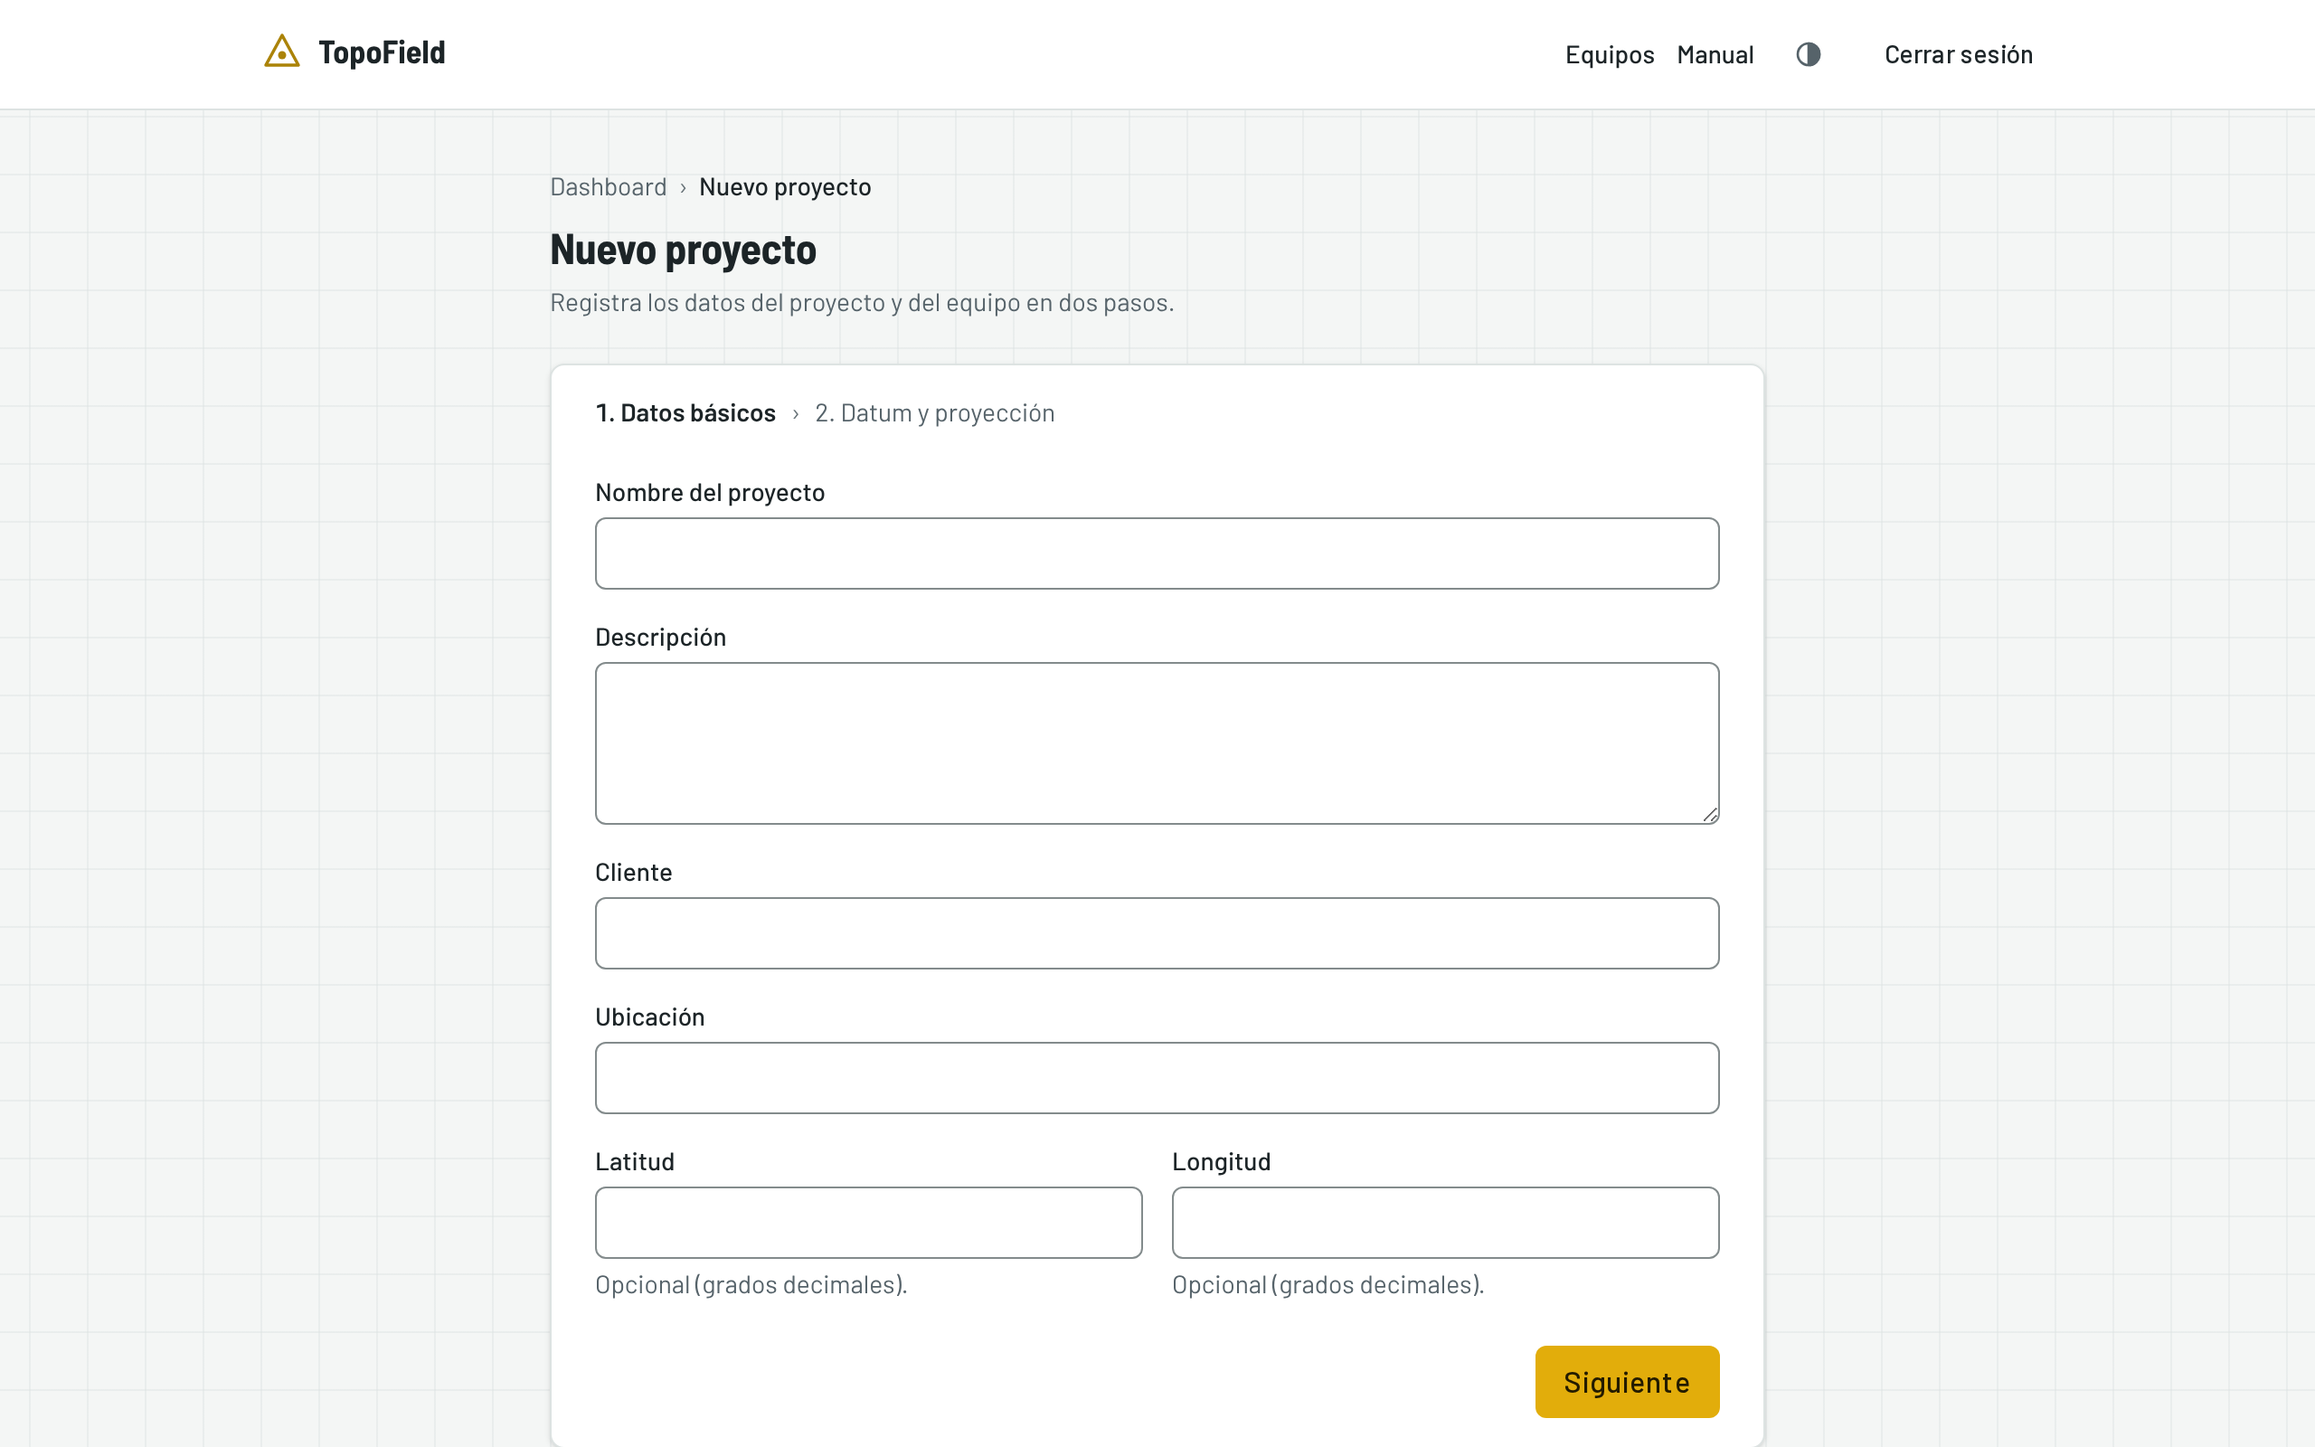
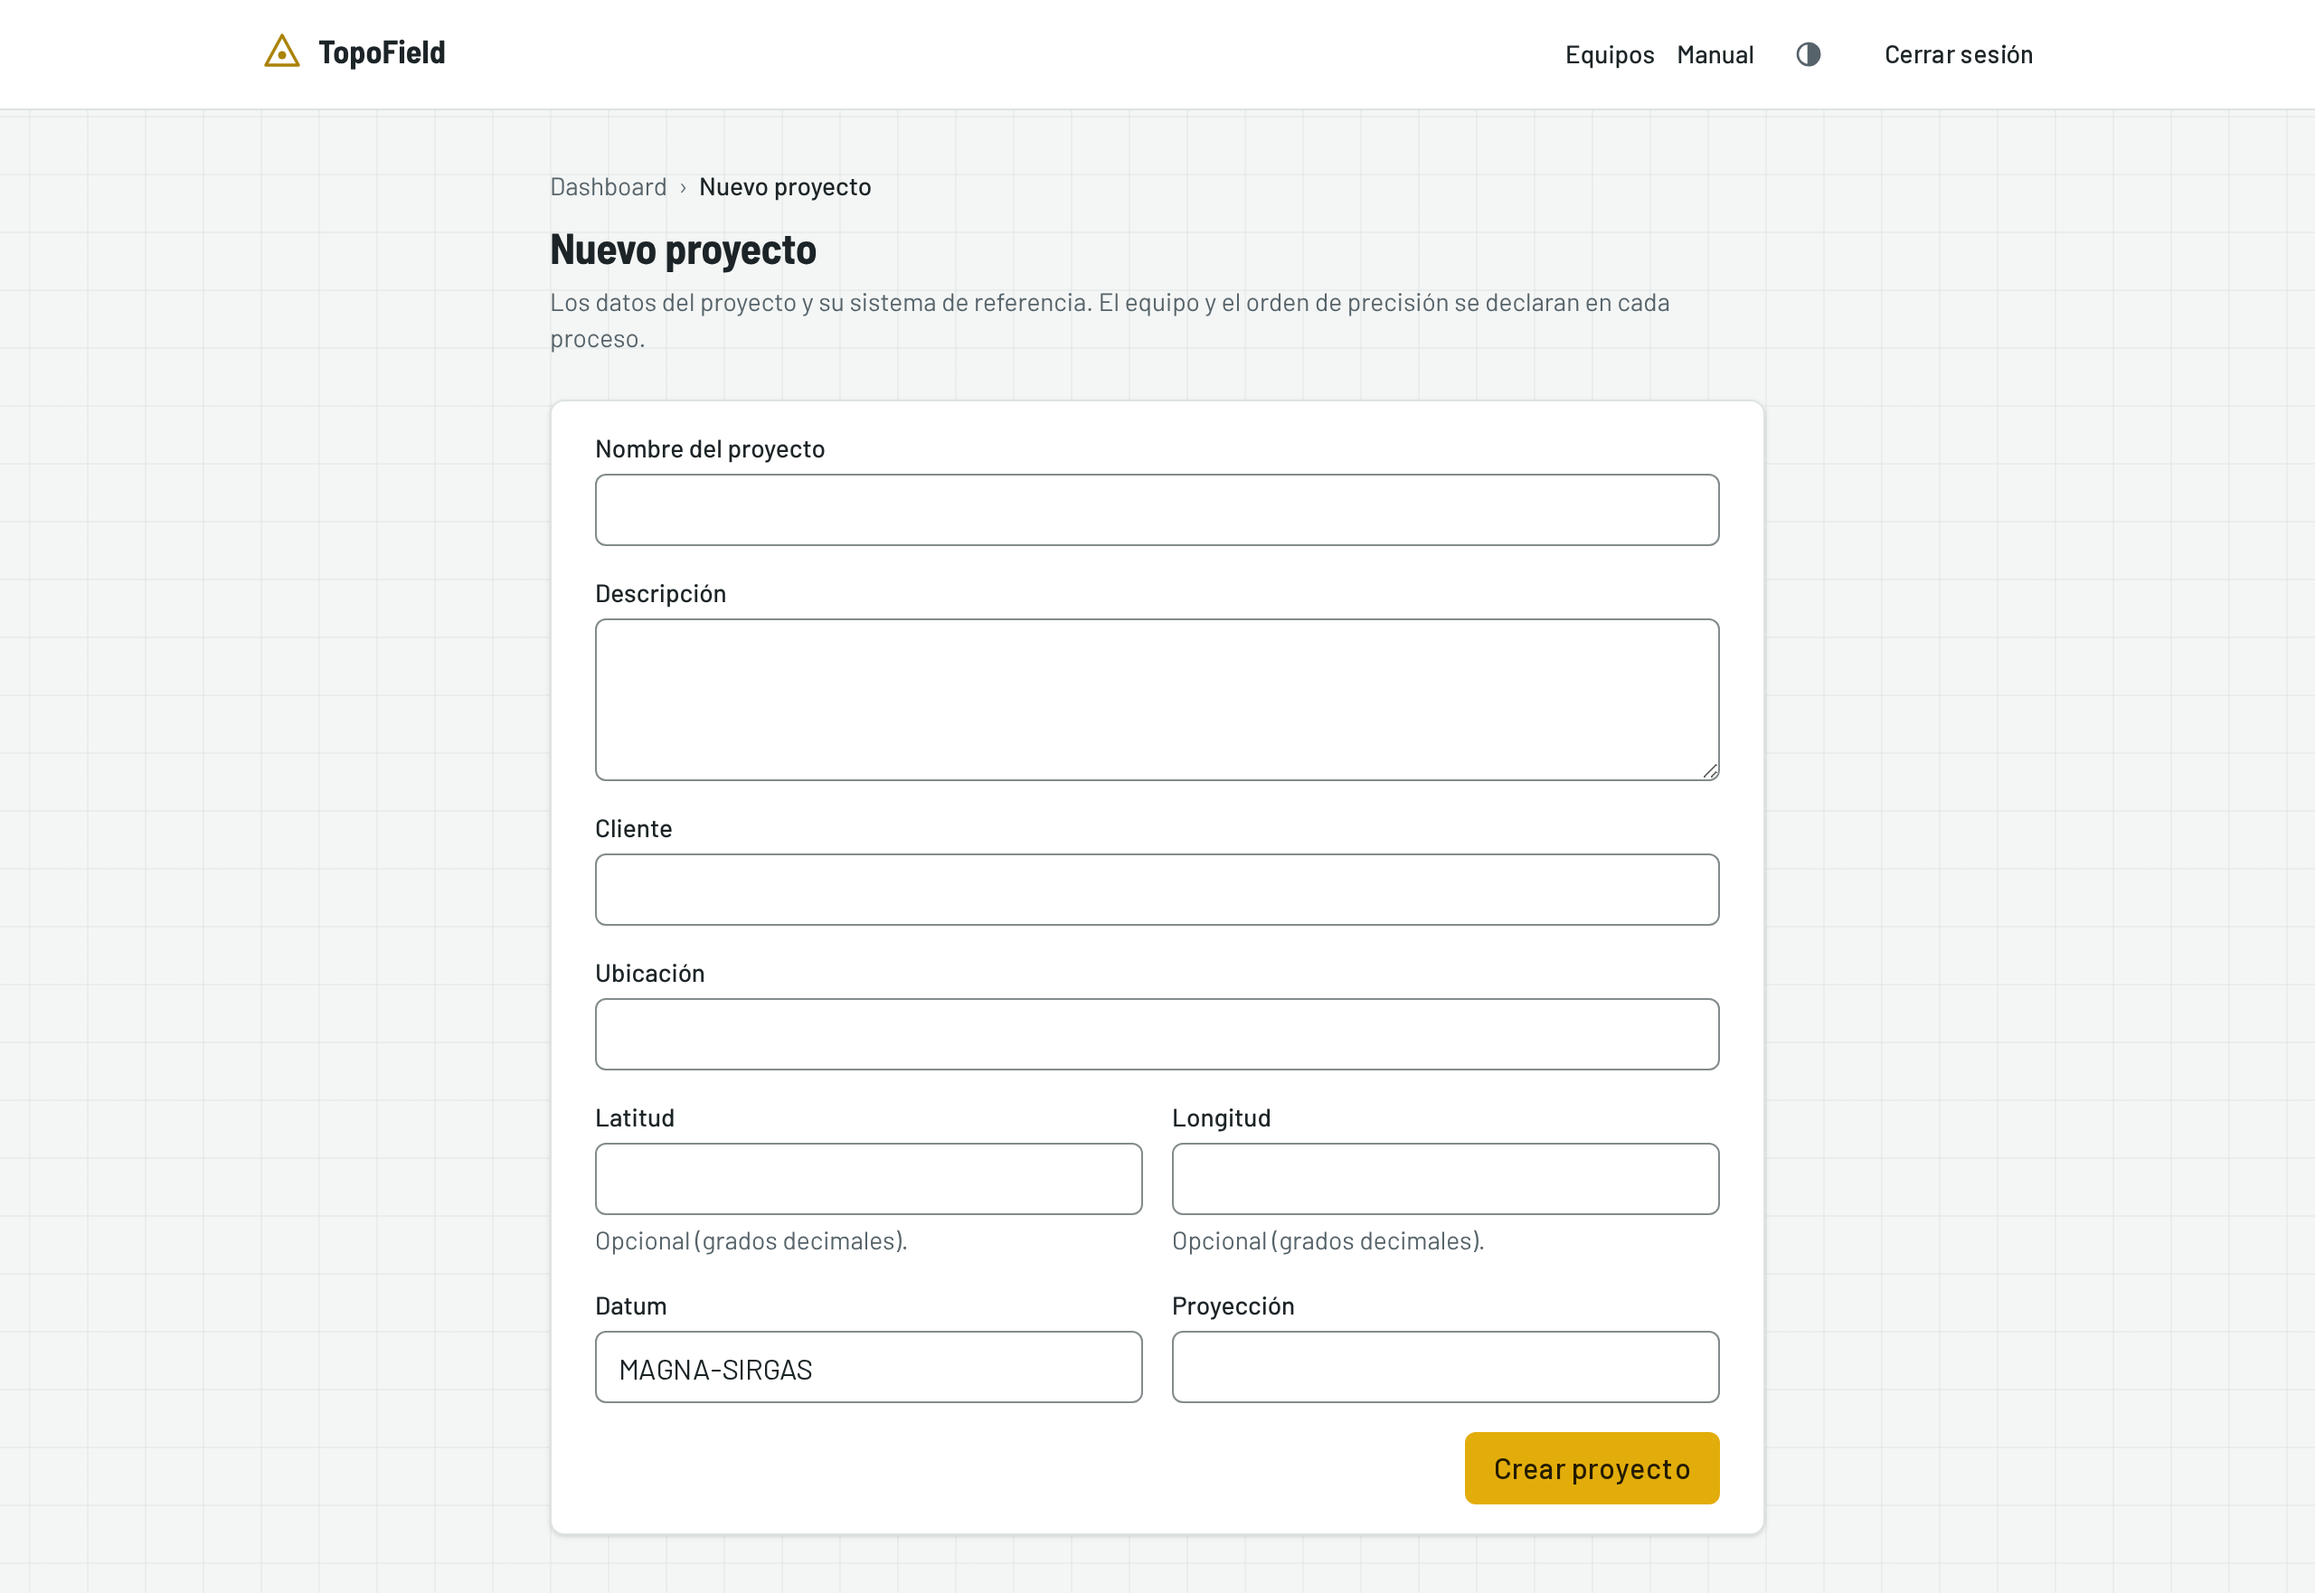
docs: capturas del alta en un formulario, el hub y los diálogos
El alta se captura a página completa para que se vea «Crear proyecto»; el
hub con el tipo como frase; Georreferenciar con su línea sobre el otro
diálogo, e importar una libreta como «Abierta con ida y vuelta».

diff --git a/src/app/(app)/manual/manual-data.ts b/src/app/(app)/manual/manual-data.ts
@@ -37,9 +37,9 @@ export const CAPTURAS = {
   },
   nuevoProyecto: {
     src: "/manual/03-nuevo-proyecto.png",
-    alt: "Formulario de creación de proyecto, en su primer paso de datos básicos.",
+    alt: "Formulario de creación de proyecto: datos básicos, datum y proyección en una sola página, con el botón Crear proyecto.",
     width: 2560,
-    height: 1600,
+    height: 1762,
   },
   hubProyecto: {
     src: "/manual/04-hub-proyecto.png",
@@ -161,7 +161,7 @@ export const CAPTURAS = {
     src: "/manual/22-georreferenciar.png",
     alt: "Diálogo Georreferenciar sobre la cartera Vivero en sistema local: D1 y D3 con sus coordenadas reales, rotación 35° 00′ 07.8″, factor de escala 1.000000 y la tabla de coordenadas actuales frente a reales.",
     width: 1344,
-    height: 1988,
+    height: 2100,
   },
   minimosCuadrados: {
     src: "/manual/21-minimos-cuadrados.png",
